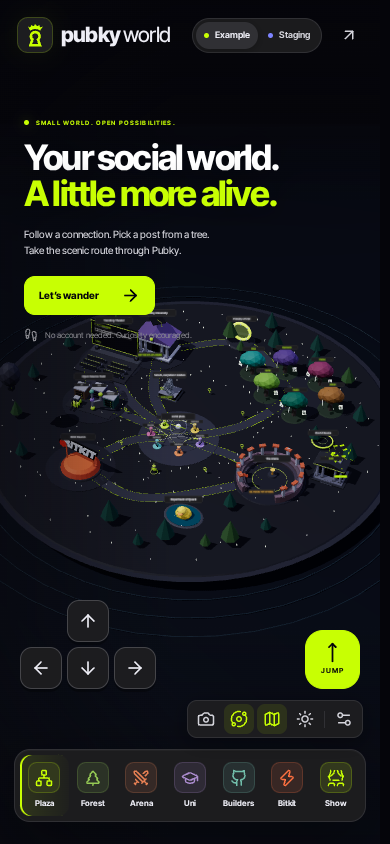
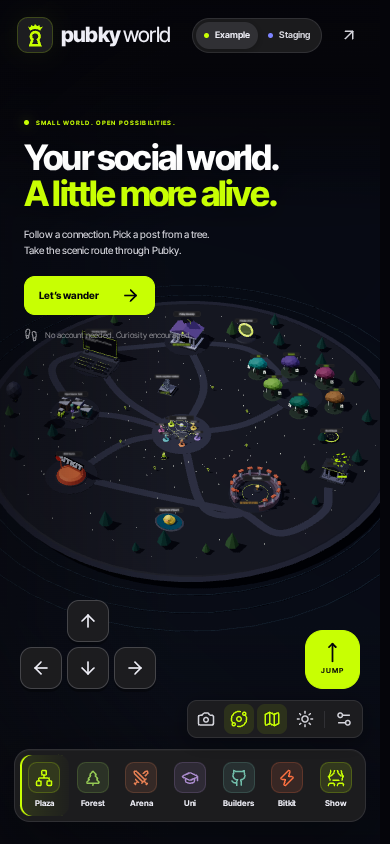
docs(world): record full staging preview and project workflow rules

Changed region(s): [[0.1231, 0.3697, 0.9231, 0.6469], [0.0, 0.4313, 0.0308, 0.4621]]

diff --git a/docs/world/validation.md b/docs/world/validation.md
@@ -1,5 +1,85 @@
 # Pubky World validation record
 
+## Expanded-world increment — 2026-09-07
+
+The project now lives in the private `its-gaib/pubky-3d` repository on
+`vibe/pubky-3d`. Both GitHub API access and Git pushes use `its-gaib`.
+
+Open PRs were checked in the fork (none) and upstream. The upstream
+[session consumer](https://github.com/pubky/pubky-app/pull/2483) and
+[session bridge](https://github.com/pubky/pubky-app/pull/2484) are relevant to future
+shared login, but require approved origins and a full deployed application. The
+[2D graph explorer](https://github.com/pubky/pubky-app/pull/2138) depends on an
+experimental Nexus graph API. None addresses this layout or standalone build work.
+
+The walkable radius increased from 56 to 76, giving about 84% more area. Districts,
+landmarks, coast trees, camera framing, fast travel, collision bounds and the pocket
+map share the expanded layout. Walking paths are plain graphite, without lime borders.
+
+| Check                                                   | Result                 |
+| ------------------------------------------------------- | ---------------------- |
+| Layout, movement, theater and bank unit tests           | 19 passed              |
+| World interface unit tests                              | 9 passed               |
+| Focused TypeScript, including imported dependencies     | Passed                 |
+| ESLint and Prettier for changed source                  | Passed                 |
+| Source, workflow and runtime-helper security review     | No actionable findings |
+| Full Next.js production build and TypeScript on Node 24 | Passed in CI           |
+| Packaged staging `/` and `/sign-in` HTTP smoke          | Passed in CI           |
+
+Desktop and 390×844 mobile browser checks show the separated districts and
+borderless paths, with no horizontal overflow or JavaScript exceptions. The
+relocated bank opens its BRRR dialog. Bitkit travel reaches `(-28, 59)`, and ground
+clicking moves to `(-29.14, 59.38)`: outside the old radius, inside the new boundary.
+The updated [overview](./screenshots/overview.png) and [mobile](./screenshots/mobile.png)
+show this expanded layout; other close-up screenshots below document earlier increments.
+These visual checks used the demo harness.
+
+The reviewed standalone workflow has been pushed through the `its-gaib` SSH
+identity. The old OAuth workflow-permission blocker is resolved. The
+[first manual build](https://github.com/its-gaib/pubky-3d/actions/runs/34139694301)
+reached webpack, then exhausted Node's roughly 2 GiB heap. No artifact was produced.
+A targeted check of unmerged fork and upstream PRs found no existing fix for this
+failure. The CI build step now allows a bounded 4 GiB heap; the local runtime limit
+remains 1 GiB.
+
+The [retry](https://github.com/its-gaib/pubky-3d/actions/runs/34140453887) passed the
+full Next.js build, TypeScript, packaging, staging HTTP smoke and artifact upload
+at exact commit `cfac49132f5ad7ff88b96c80517411e4dfeeb22f`. Artifact `10025827105`
+belongs to that successful manual run and is approximately 62 MiB. The repository,
+event, workflow, source SHA and artifact metadata were checked before download.
+Local runtime browser validation follows below. Local commits used the completed
+focused checks above; CI provides the full build validation that the shared host
+could not complete.
+
+### Full staging preview
+
+The verified archive was extracted into a fresh directory with bounded extraction,
+path/type filtering and link validation. The server runs unprivileged on loopback
+with a cleared inherited environment and the nine explicit staging runtime values.
+Both `/` and `/sign-in` returned HTTP 200 locally. After the isolated browser check
+on port 4323, the same runtime replaced the visual harness at `127.0.0.1:4321`.
+
+The browser loaded the actual Next assets and real staging data. All 37 sampled
+Nexus reads returned HTTP 200, with no partial-data or error notice. A world photo
+downloaded as a nonblank 1270×800 PNG (216,009 bytes), with the HUD excluded.
+**Sign in to post** opened **Join Pubky**, whose **Sign In** link navigated to the
+same local `/sign-in` route. The desktop QR card and enabled **Copy authentication
+link** control appeared; the mobile **Authorize with Pubky Ring** control was
+enabled with no horizontal overflow. No JavaScript exceptions occurred. Four
+requests were canceled during navigation or browser close; completed responses
+were all successful.
+
+This proves the live-data, capture and sign-in setup paths. No disposable staging
+identity was supplied for account approval, so completed login, account bootstrap
+and actual publishing remain unverified in this browser pass. No post was submitted.
+The existing camera/composer unit checks are recorded below. After signing in,
+return to `/` and take a new photo; guest photos are intentionally cleared by
+navigation to sign-in.
+
+Evidence: [full-app overview](./screenshots/staging-overview.png),
+[downloaded world PNG](./screenshots/staging-photo.png), and
+[photo review in the full app](./screenshots/staging-photo-dialog.png).
+
 ## Dark-world increment — 2026-09-07
 
 The current world uses Pubky's near-black/graphite/acid-lime palette, adds a
@@ -40,13 +120,11 @@ Current evidence: [overview](./screenshots/overview.png),
 [Satoshi](./screenshots/satoshi.png), [bank](./screenshots/bank.png),
 [later bank frame](./screenshots/bank-next.png), and [mobile](./screenshots/mobile.png).
 
-A prepared local build-workflow change can package a manual, exact-SHA standalone
-runtime after checking the root and `/sign-in` routes against staging. Its YAML, shell syntax,
-archive exclusions and unsafe-link fixtures passed. The local machine's memory
-limit still prevents a full Next build. The workflow change has not been
-published because GitHub requires the CLI login's additional `workflow`
-permission. The app changes are pushed separately. The running preview remains
-the visual harness described below, with authentication and posting unavailable there.
+At this checkpoint, a prepared standalone workflow passed local YAML, shell,
+archive-exclusion and unsafe-link fixtures. Its publication was blocked by the
+then-selected GitHub identity's workflow permission, and the preview used the demo
+harness without authentication or posting. The expanded-world checkpoint above
+records the corrected `its-gaib` owner and successful workflow publication.
 
 ## Earlier baseline
 
@@ -77,7 +155,7 @@ Full builds encountered host `SIGKILL` termination and an explicit 1536 MiB V8 h
 limit. Separating compiler workers allowed the root-only build to finish. No
 source compilation error preceded those memory failures. Later full development,
 updated root-only and lighter isolated Next builds also received host termination
-as available memory declined. There is no current completed Next build artifact.
+as available memory declined. There was no completed full Next build artifact at that checkpoint.
 Build and preview work must run sequentially because they share `.next` and compete
 for host memory. The host used Node 22.23.2; the repository recommends Node 24.
 
@@ -128,9 +206,9 @@ The source-focused security gate found no actionable issue in the world changes.
 Inherited dependency advisories remain documented in [README.md](./README.md);
 this result does not clear the entire upstream dependency tree.
 
-## Local preview scope
+## Earlier visual preview scope
 
-The final visual checkpoint uses a temporary Vite harness outside the repository,
+Before the full staging runtime above, visual checkpoints used a temporary Vite harness outside the repository,
 at `/home/gaib/.cache/pubky-world-visual`. It renders the actual `World.tsx`, Three.js
 engine, landmarks, styles and UI atoms. Its data-hook adapter supplies the example
 neighborhood, its photo-posting adapter disables publishing, and Next links become
@@ -138,11 +216,12 @@ plain anchors. The staging button and photo panel explain the full-application
 requirement. It does not simulate successful staging requests or supply fabricated
 records labelled as real data.
 
-This harness can validate the latest world appearance and controls. It cannot
+That harness validates world appearance and controls. It cannot
 validate the inherited Next layouts, authentication, live loader integration,
 classic feed, profile or post routes. Staging evidence above comes from the earlier
 real Next preview and subsequent API-boundary checks, not this visual harness.
 
 Use the normal commands in [README.md](./README.md) on a machine with sufficient
-free memory to run the full application. No preview adapter or reduced-validation
-configuration is part of the production source.
+free memory, or the verified standalone output of the manual Build workflow, to run
+the full application. No preview adapter or reduced-validation configuration is
+part of the production source.

diff --git a/docs/world/README.md b/docs/world/README.md
@@ -107,8 +107,10 @@ before taking a photo you want to publish. Guests can download first; navigating
 away to sign in clears the in-memory photo. An opened draft is cleared on logout
 or account changes.
 
-The lightweight local visual preview supports capture and download. Posting,
-authentication and classic app routes need the full Next application.
+The current local preview runs the full Next application against staging. Live
+reads, photo capture/download and the guest sign-in flow have been checked in a
+browser. Completing login and publishing still require a disposable staging test
+account. The earlier lightweight visual harness supported capture/download only.
 
 ## Implementation boundaries
 
@@ -160,8 +162,11 @@ npm test -- src/components/templates/World/WorldCamera.test.tsx src/hooks/useWor
 npm run build
 ```
 
-See [the validation record](./validation.md) for completed checks,
-browser evidence and the shared machine's full-build memory limitation.
+See [the validation record](./validation.md) for the successful full CI build,
+browser evidence and the remaining authenticated-account check. The manual Build
+workflow packages a standalone runtime after staging HTTP smoke checks; its build
+step uses a bounded 4 GiB Node heap. This avoids compiling the full app on the
+memory-constrained preview host.
 
 The world has no inherited visual baseline. Browser screenshots provide the first
 visual review checkpoint; adding a dedicated VRT baseline is a possible next step

diff --git a/AGENTS.md b/AGENTS.md
@@ -55,6 +55,8 @@ Use `Err.*` factories (never raw `Error`). Factories log automatically — don't
 
 ## Learned User Preferences
 
+- Before starting work on an issue, check the relevant repository and upstream for existing unmerged pull requests addressing it. Review relevant matches before implementing another solution.
+- Use the `its-gaib` GitHub identity for this project and the `its-gaib/pubky-3d` repository.
 - Bug fixes must not regress existing visible functionality (e.g., reducing displayed item count from 3 to 2)
 - For icon / circular nav matching Figma, confirm active vs inactive from the Shadcn button component variants (Selected vs Default: background, border, shadow), not only the parent frame or another surface’s pattern
 
